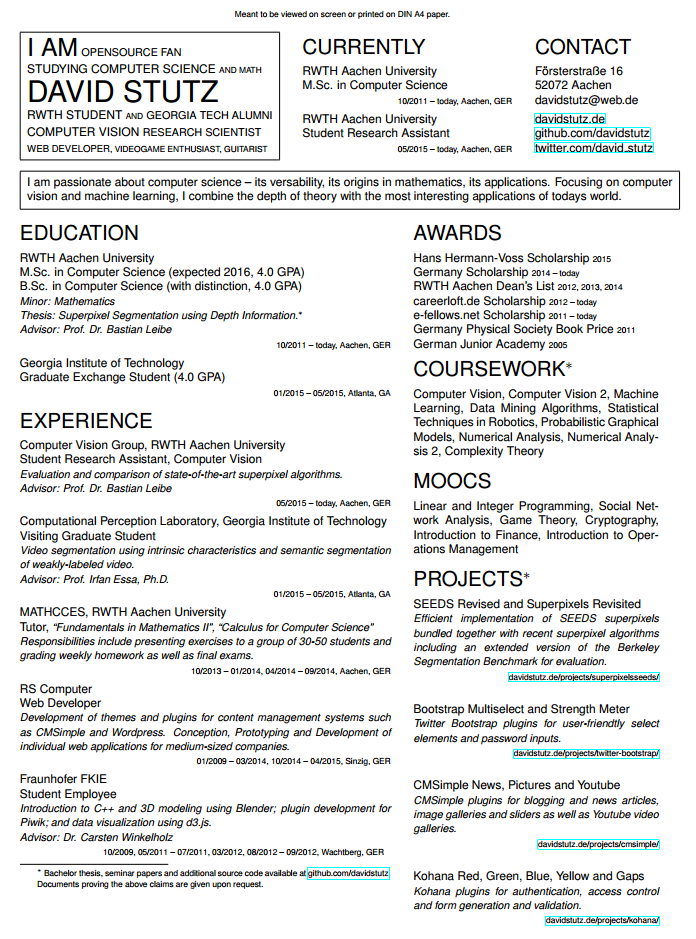
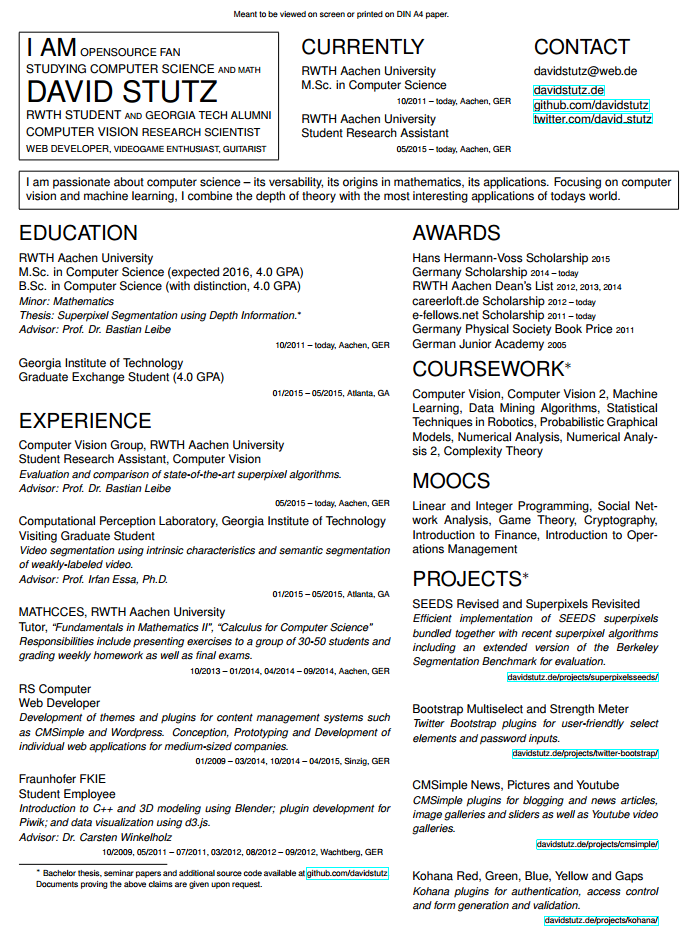
Updated two-column template and screenshot as well as README.

Changed region(s): [[0.0, 0.0, 1.0, 0.9893]]

diff --git a/two-column/CV-sume.tex b/two-column/CV-sume.tex
@@ -61,8 +61,6 @@
 	\begin{minipage}[t]{0.175\textwidth}
 		\vspace{2px}
 		{\LARGE CONTACT}\\[6px]
-		Försterstraße 16\\
-		52072 Aachen\\
 		davidstutz@web.de
 		\vskip 4px
 		\href{http://davidstutz.de}{davidstutz.de}\\

diff --git a/README.md b/README.md
@@ -18,7 +18,7 @@ The two-column templates is inspired by the design of my personal webpage: [http
 
 ## License
 
-Both templates are licensed as follows (as noted above this does not include the content, that is all personal information has to be removed!):
+Both templates are licensed as follows. **As noted above this does not include the content, that is all personal information has to be removed!**
 
 Copyright (c) 2014 - 2015, David Stutz. All rights reserved.
 
